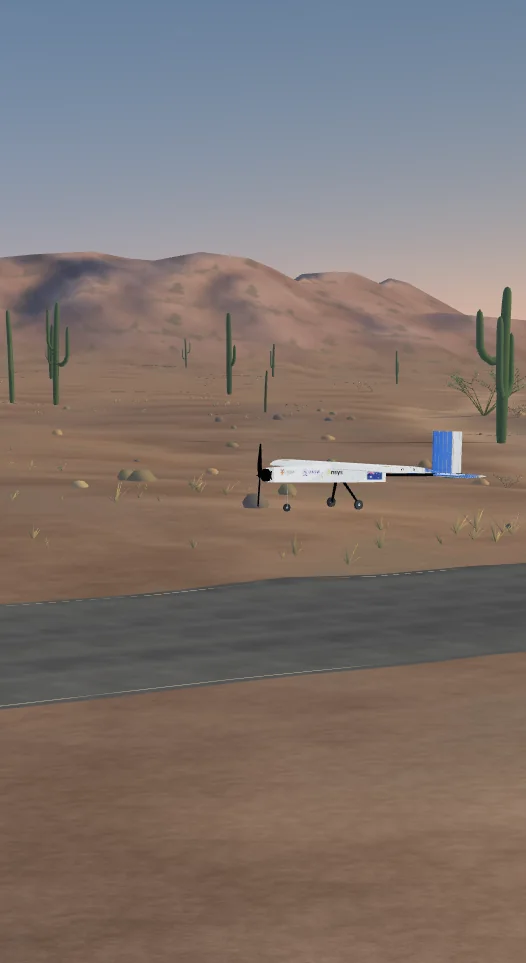
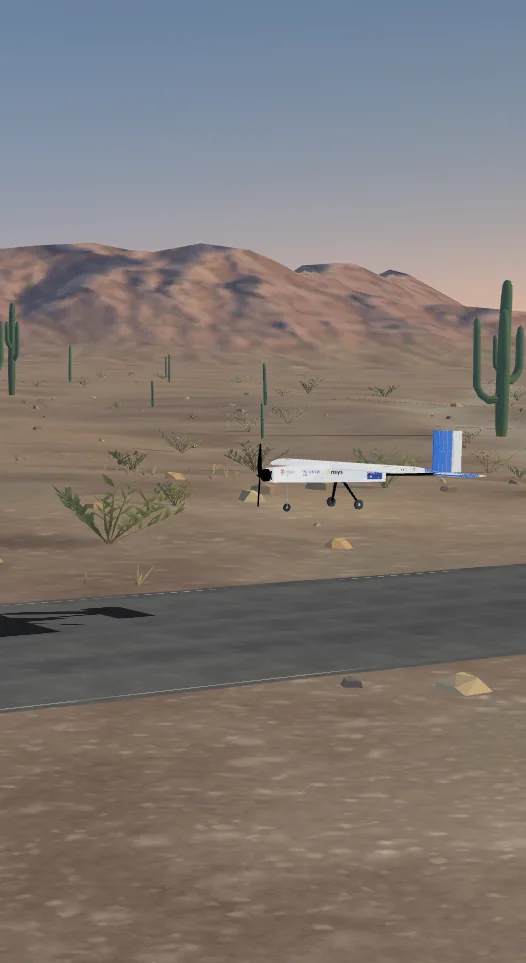
Match desktop and mobile fallback frames to the rendered Tucson terrain

diff --git a/assets/models/tucson-mountains/README.md b/assets/models/tucson-mountains/README.md
@@ -1,10 +1,10 @@
 # Tucson Mountain District: Projects hero terrain
 
-The ridgeline is modeled, not photographed. This local, self-hosted elevation grid is centered on 32.217° N, 111.153° W, looking east-northeast (67° true) toward the Tucson Mountains in southern Arizona. It is a landscape setting for the trainer, **not a survey or representation of its competition runway**. The low field, strip, vegetation, material and lighting are a designed interpretation. The real trainer CAD and its original animations have not been regenerated.
+The ridgeline is modeled, not photographed. This local, self-hosted elevation grid uses a viewpoint at 32.217° N, 111.153° W, looking east-northeast (67° true) toward the Tucson Mountains in southern Arizona. It is a landscape setting for the trainer, **not a survey or representation of its competition runway**. The low field, strip, vegetation, material and lighting are a designed interpretation. The real trainer CAD and its original animations have not been regenerated.
 
 **Elevation source:** Mapzen [Terrain Tiles on AWS](https://registry.opendata.aws/terrain-tiles/), Terrarium zoom 11 (mesh) and 13 (near-range surface material). United States 3DEP (formerly NED) and global GMTED2010 and SRTM terrain data courtesy of the U.S. Geological Survey. [Dataset compilation and attribution](https://github.com/tilezen/joerd/blob/master/docs/attribution.md).
 
-* `relief.bin`: 193 × 185 unsigned 16-bit little-endian orthometric heights, nearest metre. Rows are 150 m apart along the viewing bearing, starting 3,000 m behind the origin; columns are 150 m apart toward bearing 157°, starting 14,400 m to the left. The binary is 71,410 bytes. Distant relief is reduced uniformly in all three axes; the foreground is graded flat to meet the wheels of the metre-scale aircraft.
+* `relief.bin`: 193 × 185 unsigned 16-bit little-endian elevations, nearest metre. Rows are 150 m apart along the viewing bearing, starting 3,000 m behind the origin; columns are 150 m apart toward bearing 157°, starting 14,400 m to the left. The binary is 71,410 bytes. Distant relief is reduced uniformly in all three axes; the foreground is graded flat to meet the wheels of the metre-scale aircraft.
 * `surface.webp`: geographic **material data**, not a background or aerial photograph. Red stores directional hill illumination and green stores local ridge convexity, computed from the elevation source sampled at 15 m. It is UV-mapped onto the world-space geometry; it does not contain a sky, vegetation, aircraft or scene composition.
 * `trainer-occlusion.png` records the sunlight occlusion of the original indexed Skylabs GLB projected at three landing pitches, not a picture of the airplane. The runway shader moves that visibility mask using the real carrier transform, altitude and the same light direction, then adds wheel contact at the three original CAD contact locations. Rebuild with `python scripts/build-tucson-cad-shadow.py`.
 * Rebuild with Python, NumPy and Pillow: `python scripts/build-tucson-relief.py`. Optionally pass a persistent tile cache as the first argument. No tile service is contacted by the website.
